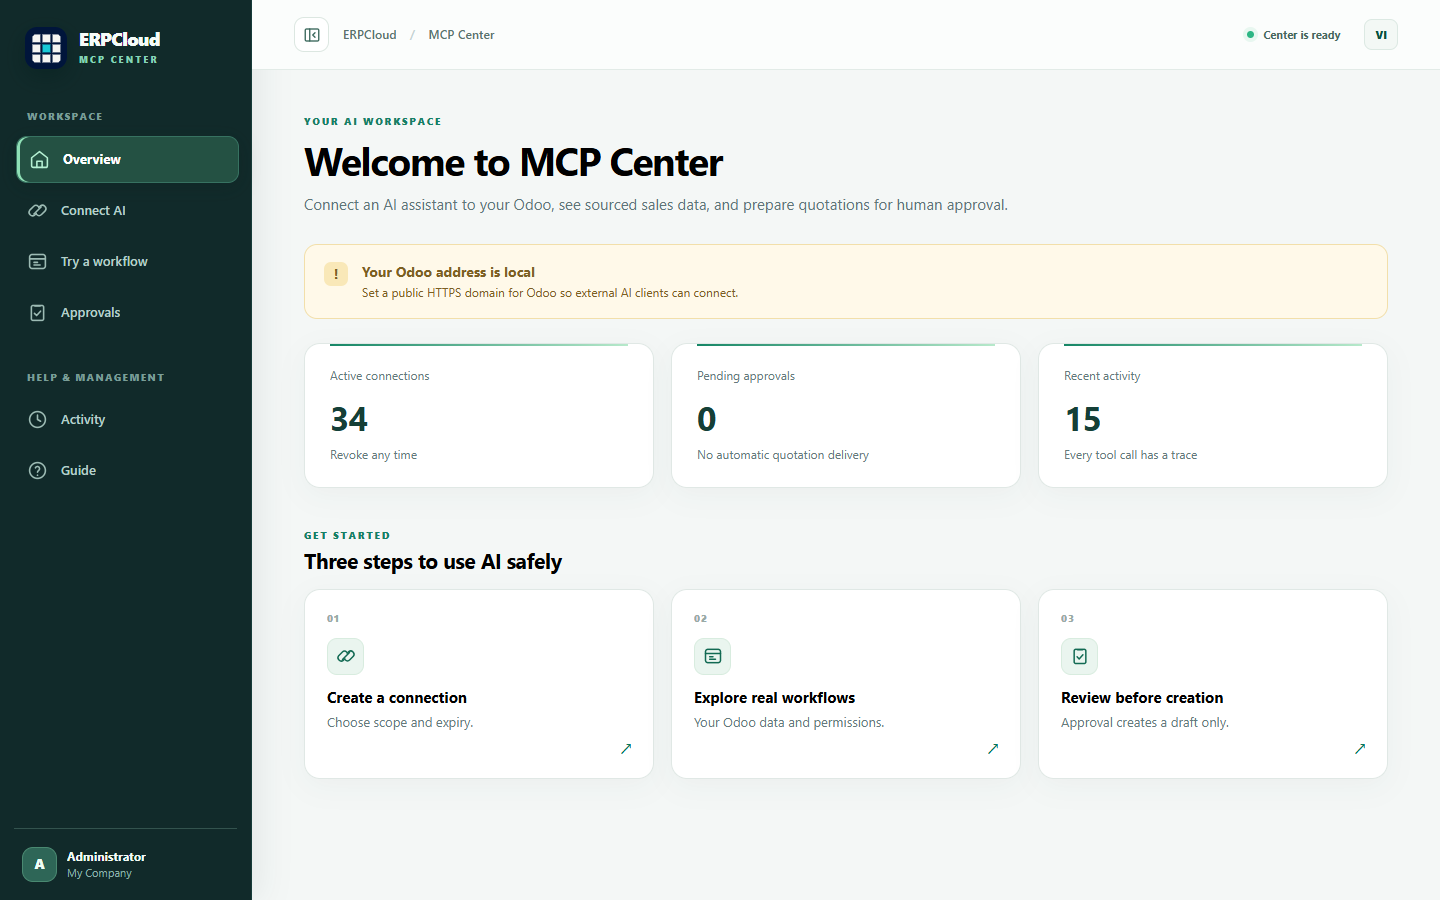
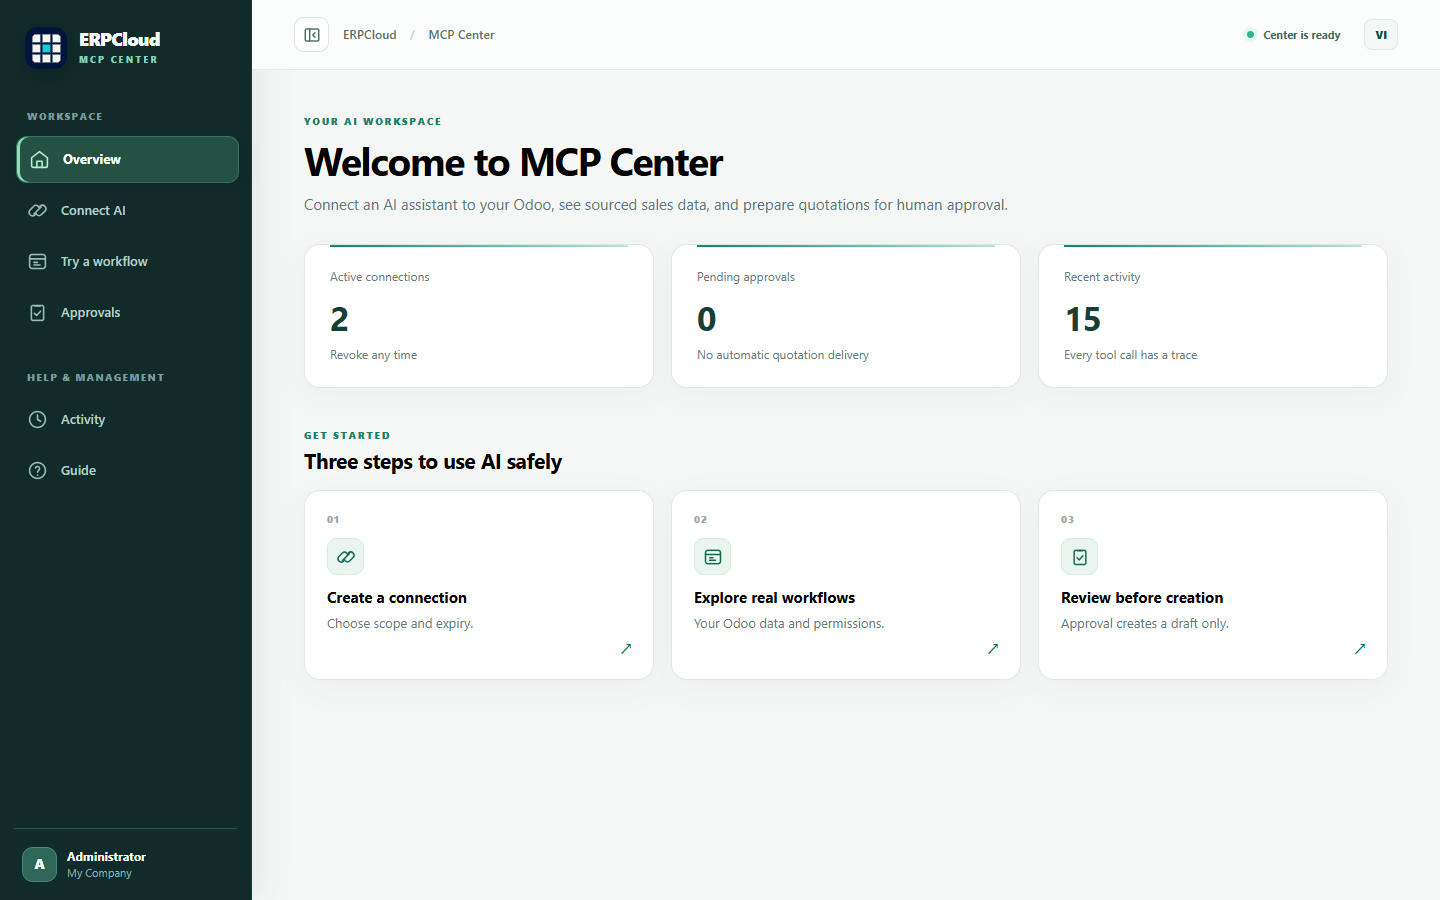
Refresh MCP Center screenshots from public HTTPS QA

diff --git a/erpcloud_mcp_center/RELEASE.md b/erpcloud_mcp_center/RELEASE.md
@@ -15,17 +15,17 @@
 
 The release gate is a fresh Odoo 20 Community database test via `tools/test-module.ps1`. Its log is `../reports/erpcloud_mcp_center-test.log` in the workspace; the latest clean run on 2026-11-07 after the visual redesign recorded **14 tests, 0 failed, 0 errors**. The suite covers key scope/revocation, dynamic model CRUD and idempotency, model permission filtering, direct-call denial, protocol lifecycle, quotation approval/rejection/idempotency, price drift, cross-user and cross-company denial.
 
-The disposable local browser QA database was tested at `http://127.0.0.1:18032`. Evidence in the workspace reports:
+The disposable browser QA database was tested locally and again through `https://mcp.erpcloud.vn` after its public HTTPS route was configured. Evidence in the workspace reports:
 
 - `reports/mcp_center_upgrade_qa.log`: separate fresh install followed by immediate module upgrade on Odoo 20 CE for the previous version; the existing local UI database was upgraded from 20.0.1.1.0 to 20.0.1.2.0 successfully.
-- `reports/mcp_center_browser_qa.json`: desktop VI/EN UI, one-time key reveal, local connection test, 360px mobile width, no browser errors.
+- `reports/mcp_center_browser_qa.json`: desktop VI/EN UI, one-time key reveal, same-origin HTTPS connection test, 360px mobile width, no browser errors.
 - `reports/mcp_center_ui_layout_qa.json`: 360px, 768px and 1440px icon loading, six desktop menu icons, no horizontal overflow, no step-icon/text overlap and no browser errors after the redesign. `reports/mcp_center_ui_mobile_steps.png` records the mobile steps.
 - `reports/mcp_center_permission_qa.json`: 242px/72px sidebar open/closed and persistence, restricted tool discovery, direct-call denial, grant-preserving rotation and revoked old key.
 - `reports/mcp_center_oauth_qa.json`: OAuth discovery, dynamic registration, consent, token, refresh and refresh-token reuse denial; unauthenticated and foreign-origin requests denied.
 - `reports/mcp_center_quote_qa.json`: customer/product lookup, quotation proposal idempotency, pending approval, approved draft, source link.
 - `reports/mcp_center_dynamic_qa.json`: dynamic model selection, read/create/update/delete via MCP, idempotent retry, cross-model denial and browser errors.
 - `reports/mcp_center_oauth_write_qa.json`: OAuth write consent displayed model grants and permitted the selected token's create/delete tools.
-- `static/description/screenshot_*.png`: real screenshots from the local QA build. The marketing cover is composed from a real screenshot.
+- `static/description/screenshot_*.png`: real screenshots from the QA build. The overview, connection and mobile screenshots were refreshed through public HTTPS after the original local-address warning was resolved. The marketing cover is composed from a real screenshot.
 
 ## Deployment and limits
 
